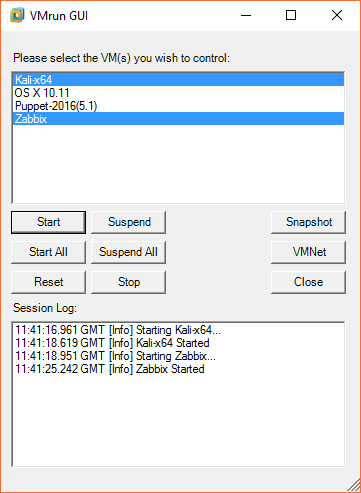
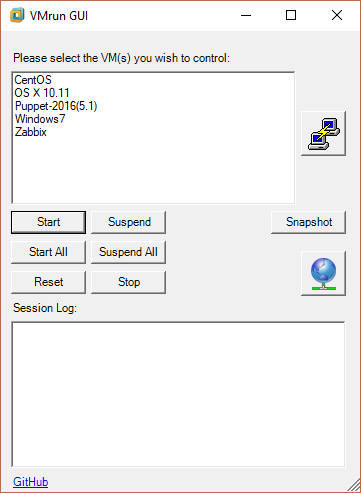
updated interface, added Puttylaunch, syntax fix

diff --git a/README.md b/README.md
@@ -1,4 +1,8 @@
-# VMRun
-Uses the VMrun.exe executible from VMWare Workstation to perform quick management of local VMs
+# VMRun GUI
+*Uses the VMrun.exe executible from VMWare Workstation to perform quick management of local VMs*
 
+### Console Manual
+The full list of commands can be found on the official [VMware Documentation](http://www.vmware.com/products/beta/ws/vmrunCommand.pdf)
+
+### Interface
 ![Alt text](Start.png?raw=true "PowerOn Multiple VMs")
